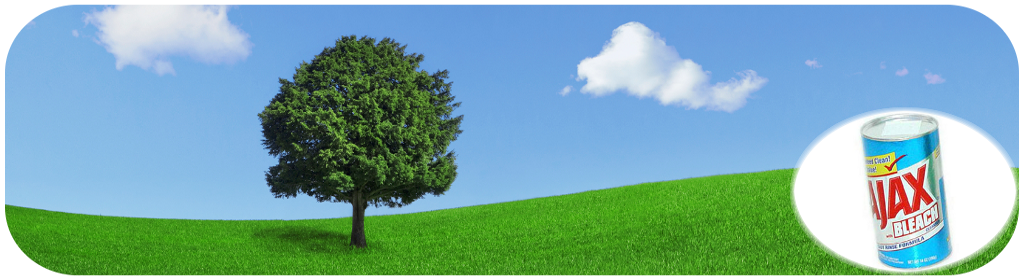
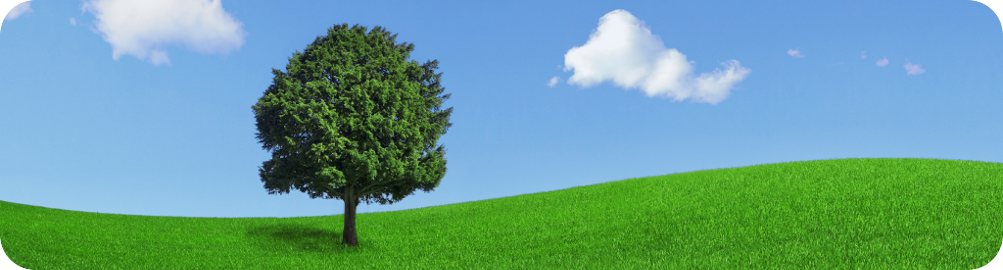
Plenty of "bling"

diff --git a/Portal/media/skins/Gold/Gold.css b/Portal/media/skins/Gold/Gold.css
@@ -87,7 +87,8 @@ a.noHoverLink:hover
 .dynamic-content
 {
 	height: 100%;
-	overflow: auto;
+	overflow-x: hidden;
+	overflow-y: auto;
 }
 
 .zoomImage
@@ -1143,8 +1144,7 @@ span.buttonFlat
 {
 	display:block;
 	text-align:center;
-	width:100%;
-	margin:15px 0 15px 0;
+	padding:35px 0 15px 150px;
 	clear:both;
 	font-size:0.8em;
 }
@@ -1305,7 +1305,7 @@ span.buttonFlat
 .article
 {
 	display:block;
-	border:dashed 1px #999;
+	border:solid 1px #999;
 	width:220px;
 	height:220px;
 	margin:5px;
@@ -1314,6 +1314,10 @@ span.buttonFlat
 	position:relative;
 	overflow:hidden;
 	position:relative;
+	-webkit-box-shadow: 2px 2px 2px #777;
+	-moz-box-shadow: 2px 2px 2px #777;
+	-moz-border-radius: 10px;
+	-webkit-border-radius: 10px;
 }
 
 .article a.mainLink
@@ -1543,6 +1547,53 @@ a.bookmarks
 	font-family:"Lucida Grande",Verdana,"Bitstream Vera Sans",Arial,sans-serif;
 }
 
+.articleMainBodyImage
+{
+	float:right;
+	margin-left:15px;
+}
+
+.articleMainBodyNews
+{
+	-moz-column-width:17em;
+	-webkit-column-width:17em;
+	column-width:17em;
+	-moz-column-gap:1em;
+	-webkit-column-gap:1em;
+	column-gap:1em;
+	text-align:justify;
+	font-size:12px;
+	font-family:Times New Roman;
+}
+
+.articleMainBodyNews p:first-letter
+{
+	font-size:larger;
+	font-weight:bold;
+}
+
+.articleMainBodyNews object,
+.articleMainBodyNews img
+{
+	width:240px !important;
+}
+
+.articleMainBodyNewsImage
+{
+	display:table;
+	margin:10px auto 10px auto;
+	margin-left:auto;
+	margin-right:auto;
+}
+
+.articleMainBodyNewsImage,
+.articleMainBodyNews img
+{
+	-webkit-box-shadow: 3px 3px 3px #777;
+	-moz-box-shadow: 3px 3px 3px #777;
+	width:235px !important;
+}
+
 .forumMainBody
 {
 	text-align:justify;
@@ -1729,6 +1780,11 @@ a.bookmarks
 /* Window "light" */
 .light-window
 {
+	-webkit-box-shadow: 3px 3px 7px #777;
+	-moz-box-shadow: 3px 3px 7px #777;
+	-webkit-border-radius: 25px;
+	-moz-border-radius: 25px;
+	overflow:hidden !important;
 }
 
 .light-window_nw

diff --git a/Portal/media/RaAjaxOrg.css b/Portal/media/RaAjaxOrg.css
@@ -1,11 +1,17 @@
 
 .headerLogoBg
 {
-	height:280px;
+	height:270px;
 	background:transparent url(ajax.png) no-repeat 0 0;
-	width:1024px;
+	width:1003px;
 	position:relative;
-	margin-bottom:12px;
+	margin-bottom:22px;
+	margin-top:15px;
+	margin-left:15px;
+	-webkit-box-shadow: 3px 3px 7px #777;
+	-moz-box-shadow: 3px 3px 7px #777;
+	-webkit-border-radius: 40px;
+	-moz-border-radius: 40px;
 }
 
 .logoRaBrix
@@ -14,6 +20,8 @@
 	height:200px;
 	left:15px;
 	top:15px;
+	-moz-box-shadow: 3px 3px 7px #777;
+	-moz-border-radius: 125px;
 }
 
 .logoRaBrix a

diff --git a/Modules/ArticlePublisherModules/ViewArticle.ascx.cs b/Modules/ArticlePublisherModules/ViewArticle.ascx.cs
@@ -25,7 +25,6 @@ namespace ArticlePublisherModules
         protected global::System.Web.UI.HtmlControls.HtmlGenericControl ingress;
         protected global::System.Web.UI.HtmlControls.HtmlGenericControl date;
         protected global::System.Web.UI.HtmlControls.HtmlGenericControl content;
-        protected global::System.Web.UI.HtmlControls.HtmlImage image;
         protected global::System.Web.UI.HtmlControls.HtmlAnchor author;
         protected global::Ra.Extensions.Widgets.ExtButton edit;
         protected global::Ra.Extensions.Widgets.ExtButton delete;
@@ -62,7 +61,12 @@ namespace ArticlePublisherModules
                 };
             header.InnerHtml = node["Header"].Get<string>();
             ingress.InnerHtml = node["Ingress"].Get<string>();
-            content.InnerHtml = node["Body"].Get<string>();
+            content.InnerHtml =
+                string.Format(@"<img src=""{0}"" alt=""{1}"" class=""{2}"" />",
+                    node["MainImage"].Get<string>().Replace("~", ApplicationRoot.Root),
+                    node["Header"].Get<string>(),
+                    Settings.Instance.Get<bool>("DisplayArticlesAsNews", false) ? "articleMainBodyNewsImage" : "articleMainBodyImage") + 
+                node["Body"].Get<string>();
             date.InnerHtml = Language.Instance["Published", null, "Published"] + " " +
                 DateFormatter.FormatDate(node["Date"].Get<DateTime>()) +
                 " - " +
@@ -71,12 +75,18 @@ namespace ArticlePublisherModules
                 " - " +
                 string.Format(
                     Language.Instance["BookmarkedBy", null, "bookmarked {0} times"], node["BookmarkedBy"].Value);
-            image.Src = node["MainImage"].Get<string>();
-            image.Alt = node["Header"].Get<string>() + " - " + node["Ingress"].Get<string>();
             author.HRef = "~/authors/" + node["Author"].Get<string>().Replace(".", "--") + ConfigurationManager.AppSettings["DefaultPageExtension"];
             author.InnerHtml = "/.~ " + node["Author"].Get<string>();
             bookmark.Visible = Users.LoggedInUserName != null;
             bookmark.CssClass = node["Bookmarked"].Get<bool>() ? "bookmarked" : "bookmark";
+            content.DataBind();
+        }
+
+        protected string GetArticleCssClass()
+        {
+            if (Settings.Instance.Get<bool>("DisplayArticlesAsNews", false))
+                return "articleMainBodyNews";
+            return "articleMainBody";
         }
 
         protected void bookmark_Click(object sender, EventArgs e)

diff --git a/Modules/StackedModules/AskQuestion.ascx.cs b/Modules/StackedModules/AskQuestion.ascx.cs
@@ -55,6 +55,36 @@ namespace StackedModules
             }
         }
 
+        [ActiveEvent(Name = "CMSInsertLink")]
+        protected void CMSInsertLink(object sender, ActiveEventArgs e)
+        {
+            string html = string.Format(
+                @"<a href=""{0}"">{1}</a>", 
+                e.Params["URL"].Get<string>(),
+                e.Params["Text"].Get<string>());
+            editor.PasteHTML(html);
+        }
+
+        [ActiveEvent(Name = "ImageFileChosenByFileDialog")]
+        protected void ImageFileChosenByFileDialog(object sender, ActiveEventArgs e)
+        {
+            string fileName = e.Params["File"].Get<string>();
+            string html = string.Format(
+                @"<img src=""{0}"" alt=""unknown"" />", fileName);
+            editor.PasteHTML(html);
+        }
+
+        [ActiveEvent(Name = "ResourceFileChosenByFileDialog")]
+        protected void ResourceFileChosenByFileDialog(object sender, ActiveEventArgs e)
+        {
+            string fileName = e.Params["File"].Get<string>();
+            string cssClass = "resourceDownload specificResource-" + 
+                fileName.Substring(fileName.LastIndexOf('.') + 1).ToLowerInvariant();
+            string html = string.Format(
+                @"<a target=""_blank"" href=""{0}"" class=""{1}"" />", fileName, cssClass);
+            editor.PasteHTML(html);
+        }
+
         protected void editor_GetExtraToolbarControls(object sender, RichEdit.ExtraToolbarControlsEventArgs e)
         {
             // Save button

diff --git a/Controllers/CMSController/CMSController.cs b/Controllers/CMSController/CMSController.cs
@@ -141,7 +141,8 @@ namespace CMSController
                 }
                 else
                 {
-                    node["ModuleSettings"]["Pages"]["Page" + idxNo]["URL"].Value = idx.URL + ConfigurationManager.AppSettings["DefaultPageExtension"];
+                    node["ModuleSettings"]["Pages"]["Page" + idxNo]["URL"].Value = 
+                        idx.URL + ConfigurationManager.AppSettings["DefaultPageExtension"];
                 }
                 idxNo += 1;
             }
